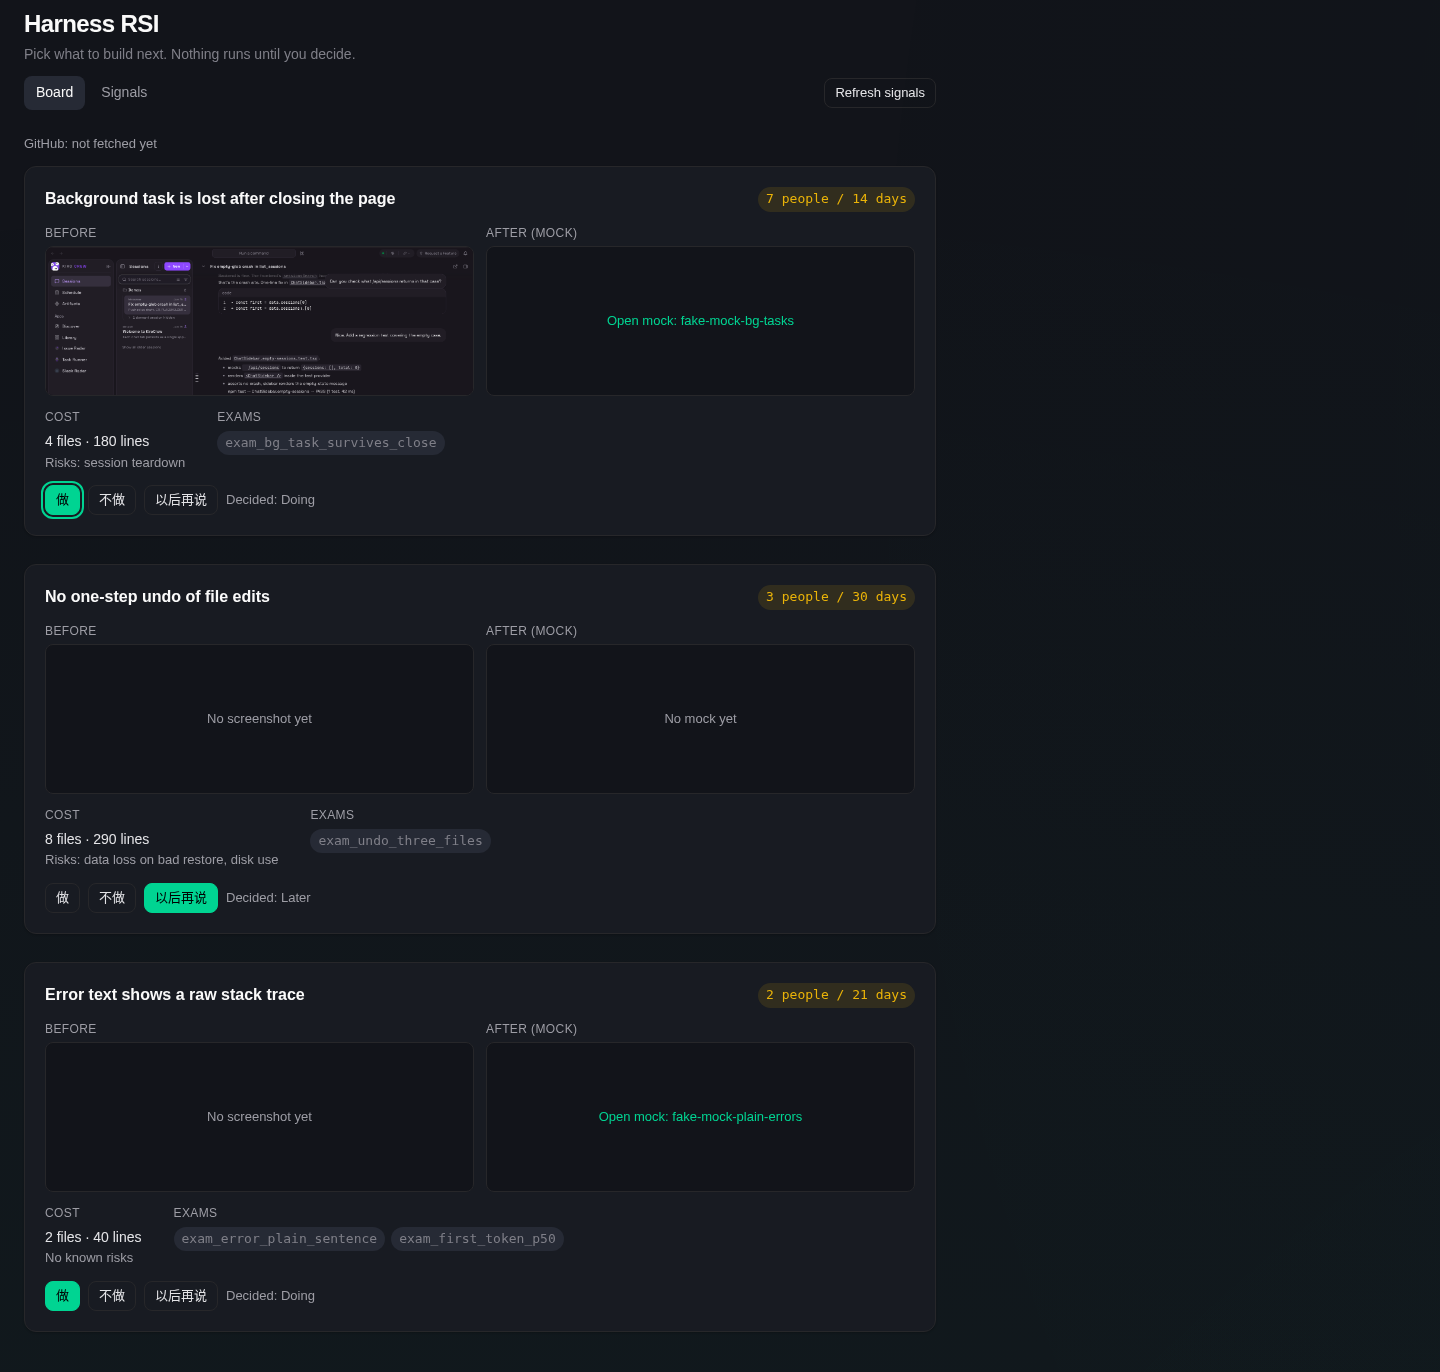
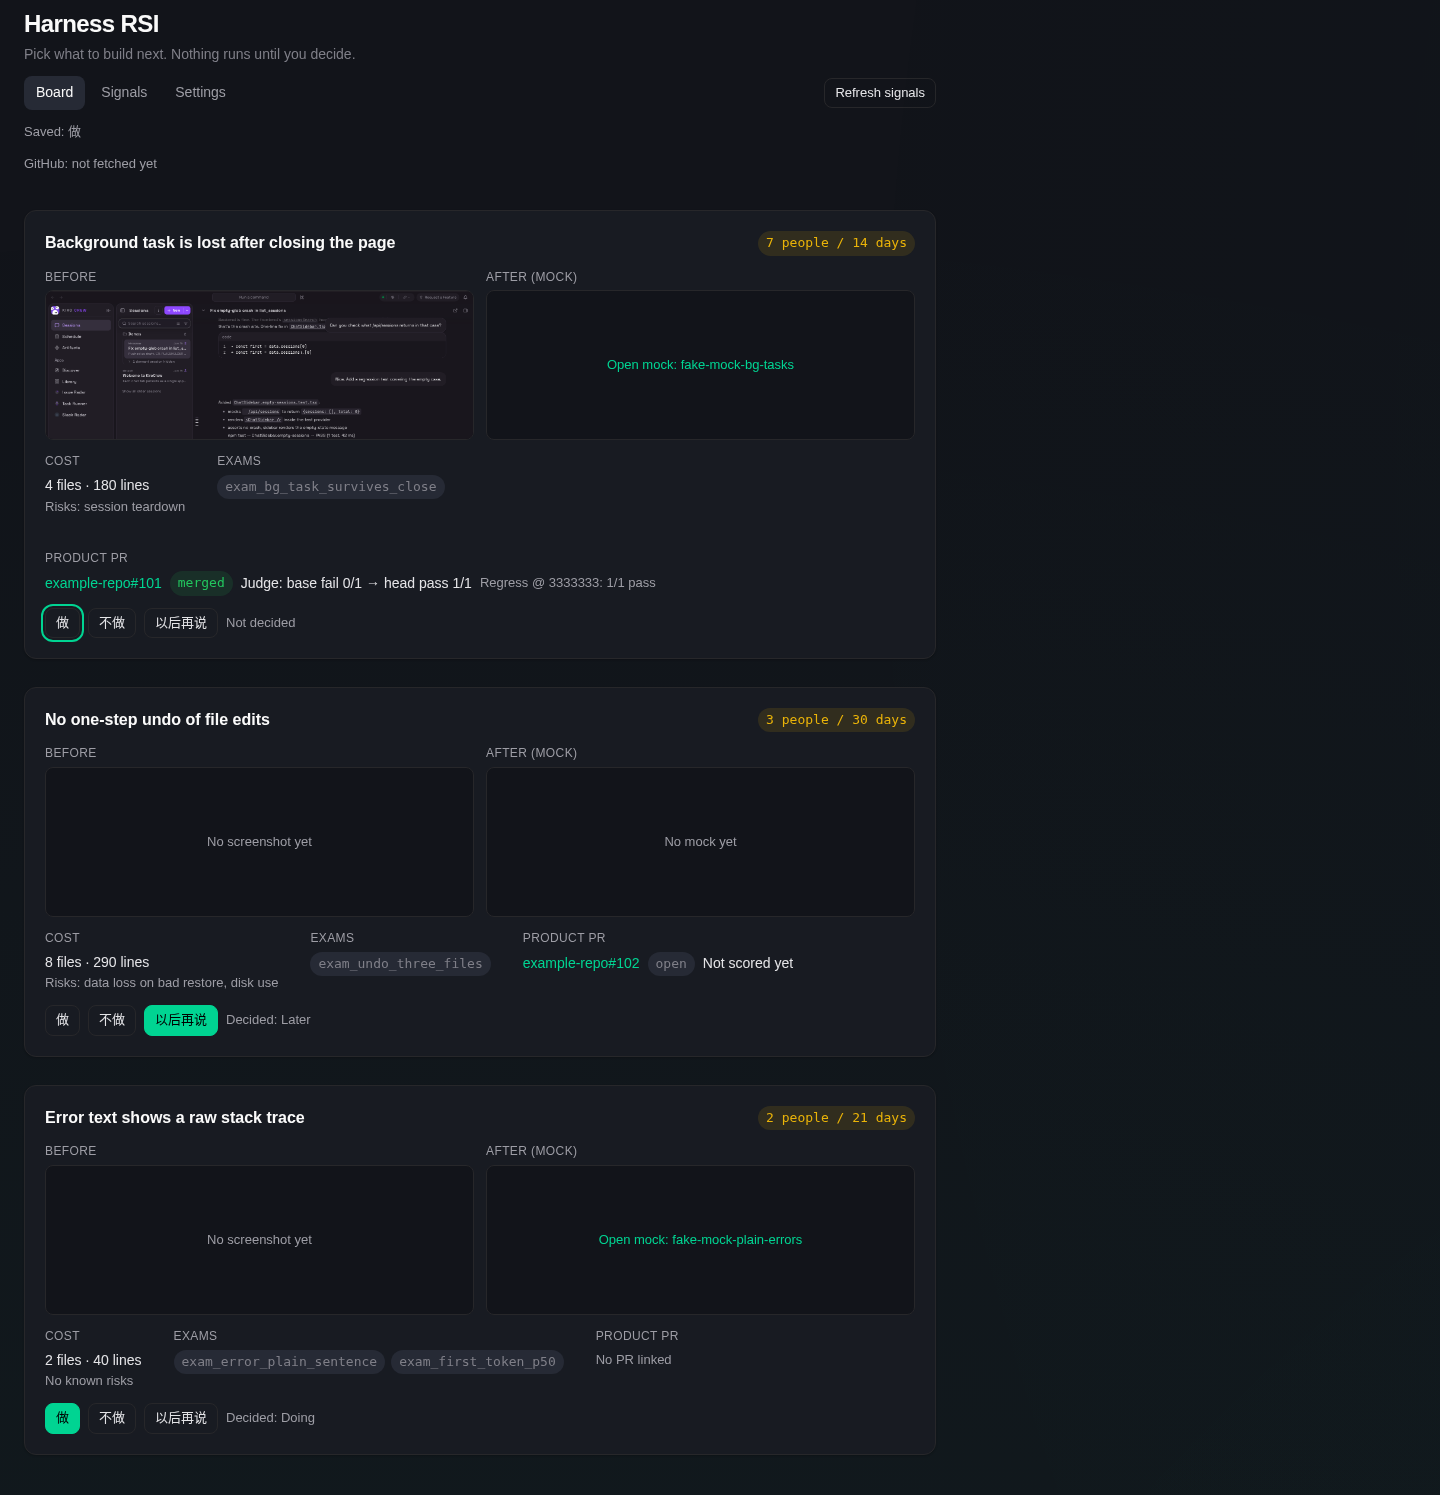
feat(ui): judge scores on each card, link a PR, score on a switch
Re-lands the changes from #31 onto main. #31 merged into
feat/r7-3-outcome-ledger after that branch had already landed via #30,
so its merge commit 2a82a0ed08 never reached main. Docstring conflict
in backend/schedule.py resolved keeping main's text.

diff --git a/backend/routes.py b/backend/routes.py
@@ -8,7 +8,10 @@ one-shot job (at most one at a time; it takes minutes) whose rows merge when it 
 Slack settings (``backend.settings``). ``POST /round/run`` runs one design-crew round
 (``backend.round_job``) with these same Slack and GitHub sources plus the owner's sessions; ``GET /round/status``
 reports it. ``/schedule`` and ``/schedule/tick``: the owner's opt-in weekly round and daily
-regress (``backend.schedule``), off by default. No startup hook, no timer in the gateway.
+regress (``backend.schedule``), off by default. ``GET /outcomes`` reads the outcome ledger
+and the scoring job; ``POST /outcomes/link`` links a card to a KiroCrew PR; ``POST /score/run``
+starts ``python -m backend.autoscore`` (single-flight; the tick does when scoring is on).
+No startup hook, no timer in the gateway.
 """
 
 import asyncio
@@ -28,15 +31,18 @@ except ImportError:  # tests and the CLI import ``backend`` as a top-level packa
     import adapters.sessions
     import adapters.slack
 
-from . import round_job, schedule, settings, store
+from . import ledger, round_job, schedule, settings, store
 
 APP_NAME = "harness-rsi"
 MAX_BODY = 2 * 1024 * 1024
 GITHUB_TIMEOUT_S = 30 * 60
+SCORE_TIMEOUT_S = 6 * 3600
 #: The GitHub job: ``task`` is the running asyncio task, the rest is shown on the board.
 JOB = {"task": None, "running": False, "started_at": None, "finished_at": None, "rows": None, "error": ""}
 CLOCK = lambda: dt.datetime.now().astimezone()  # noqa: E731 - local time; tests pass a fake
 SCHEDULED = set()  # tasks the tick started, held until they end
+#: The scoring job (``backend.autoscore``), shown with ``/outcomes``; ``updated`` lists rows it changed.
+SCORE = {"task": None, "running": False, "started_at": None, "finished_at": None, "updated": None, "error": ""}
 
 
 def _err(status, code, message):
@@ -179,6 +185,61 @@ async def _refresh(request, ctx):
     return web.json_response({"ok": True, "total": total, "added": added, "errors": [note] if note else [], "github": _job_view()})
 
 
+def score_run(kc):
+    """``(updated rows, error)`` from one ``python -m backend.autoscore`` run (exit 3: rate limit)."""
+    try:
+        r = subprocess.run([sys.executable, "-m", "backend.autoscore", "--kirocrew", kc], cwd=store.ROOT,
+                           capture_output=True, text=True, timeout=SCORE_TIMEOUT_S)
+        return (json.loads(r.stdout)["updated"], "") if r.returncode == 0 else (None, f"score: exit {r.returncode}")
+    except (OSError, subprocess.TimeoutExpired, ValueError, KeyError) as exc:
+        return None, f"score: {type(exc).__name__}"
+
+
+async def _score_job(kc):
+    try:
+        SCORE.update(zip(("updated", "error"), await asyncio.to_thread(score_run, kc)))
+    except Exception as exc:  # noqa: BLE001 - the job must always report and release
+        SCORE.update(updated=None, error=f"score: {type(exc).__name__}")
+    finally:
+        SCORE.update(running=False, finished_at=time.time(), task=None)
+
+
+def start_score(kc):
+    """Start the scoring job unless one runs (single-flight); True when started."""
+    if SCORE["running"]:
+        return False
+    SCORE.update(running=True, started_at=time.time(), finished_at=None, updated=None, error="")
+    SCORE["task"] = asyncio.get_running_loop().create_task(_score_job(kc))
+    return True
+
+
+async def _outcomes(request, ctx):
+    score = {k: v for k, v in SCORE.items() if k != "task"}
+    return web.json_response({"ok": True, "outcomes": await asyncio.to_thread(ledger.rows), "score": score})
+
+
+async def _link(request, ctx):
+    if not _owner(request):
+        return _err(403, "owner_only", "only the dashboard owner can link a PR")
+    body = await _body(request) or {}
+    if not (isinstance(n := body.get("pr"), int) and not isinstance(n, bool) and 0 < n < 10**7):
+        return _err(400, "bad_pr", "pr must be a KiroCrew pull request number")
+    if body.get("proposal_id") not in {p["id"] for p in await asyncio.to_thread(store.read_proposals)}:
+        return _err(404, "unknown_proposal", "no such proposal")
+    row = await asyncio.to_thread(ledger.link, body["proposal_id"], f"kirodotdev/KiroCrew#{n}", "board")
+    return web.json_response({"ok": True, "outcome": row})
+
+
+async def _score_post(request, ctx):
+    if not _owner(request):
+        return _err(403, "owner_only", "only the dashboard owner can start scoring")
+    if not (kc := (await asyncio.to_thread(schedule.read))["kirocrew_dir"]):
+        return _err(409, "no_kirocrew", "set the KiroCrew clone on the Settings tab first")
+    if not start_score(kc):
+        return _err(409, "score_running", "scoring is already running")
+    return await _outcomes(request, ctx)
+
+
 def regress_runs():
     """Stored post-merge regression runs, newest first; an unreadable file is left out."""
     runs = []
@@ -236,6 +297,8 @@ async def _schedule_tick(request, ctx):
     start = lambda: None if JOB["running"] else round_job.start(rnd, round_sources())  # noqa: E731
     out, jobs = schedule.tick(CLOCK, conf, round_job.STATE["running"] or JOB["running"], start,
                               schedule.run_regress, lambda *note: schedule.push(state, *note))
+    on = conf["score_enabled"] and conf["kirocrew_dir"]
+    out["score"] = "off" if not on else "started" if start_score(conf["kirocrew_dir"]) else "busy"
     for job in jobs:
         task = asyncio.get_running_loop().create_task(job)
         SCHEDULED.add(task)
@@ -261,4 +324,7 @@ def register_routes(ctx):
         AppRoute(method="GET", path="/schedule", handler=_schedule_get),
         AppRoute(method="POST", path="/schedule", handler=_schedule_post),
         AppRoute(method="POST", path="/schedule/tick", handler=_schedule_tick),
+        AppRoute(method="GET", path="/outcomes", handler=_outcomes),
+        AppRoute(method="POST", path="/outcomes/link", handler=_link),
+        AppRoute(method="POST", path="/score/run", handler=_score_post),
     ]

diff --git a/tests/backend/test_outcome_routes.py b/tests/backend/test_outcome_routes.py
@@ -1,0 +1,69 @@
+"""Outcome routes: owner-only link, the ledger read, and the single-flight scoring job."""
+
+import asyncio
+import json
+import pathlib
+import sys
+
+import pytest
+
+ROOT = pathlib.Path(__file__).resolve().parents[2]
+sys.path.insert(0, str(ROOT))
+from backend import routes  # noqa: E402
+
+PROPOSALS = json.loads((ROOT / "fixtures/proposals.json").read_text(encoding="utf-8"))
+
+
+@pytest.fixture
+def env(tmp_path, monkeypatch):
+    monkeypatch.setenv("HARNESS_RSI_DATA", str(tmp_path))
+    (tmp_path / "proposals.json").write_text(json.dumps(PROPOSALS), encoding="utf-8")
+    return tmp_path
+
+
+class Req(dict):
+    def __init__(self, body=None, **flags):
+        super().__init__({"app": "harness-rsi", **flags})
+        self._body, self.content_length = body, 10
+
+    async def json(self):
+        return self._body
+
+
+def call(handler, req):
+    resp = asyncio.run(handler(req, None))
+    return resp.status, json.loads(resp.text)
+
+
+def test_link_route_is_owner_only_and_checked(env):
+    assert call(routes._link, Req({"proposal_id": "prop_bg_tasks", "pr": 5}, internal_auth=True))[0] == 403
+    assert call(routes._link, Req({"proposal_id": "prop_bg_tasks", "pr": "5"}))[0] == 400
+    assert call(routes._link, Req({"proposal_id": "prop_nope", "pr": 5}))[0] == 404
+    status, body = call(routes._link, Req({"proposal_id": "prop_bg_tasks", "pr": 5}))
+    assert status == 200 and body["outcome"]["pr"] == "kirodotdev/KiroCrew#5"
+    assert [r["pr"] for r in call(routes._outcomes, Req())[1]["outcomes"]] == ["kirodotdev/KiroCrew#5"]
+
+
+def test_score_job_is_single_flight(env, monkeypatch):
+    calls = []
+    monkeypatch.setattr(routes, "score_run", lambda kc: (calls.append(kc), ([{"pr": "x"}], ""))[1])
+
+    async def go():
+        assert routes.start_score("/kc") and not routes.start_score("/kc")
+        await routes.SCORE["task"]
+        return json.loads((await routes._outcomes(Req(), None)).text)["score"]
+    view = asyncio.run(go())
+    assert calls == ["/kc"] and view["running"] is False and view["updated"] == [{"pr": "x"}]
+
+
+@pytest.mark.parametrize("conf,want", [({"score_enabled": False, "kirocrew_dir": "/kc"}, "off"),
+                                       ({"score_enabled": True, "kirocrew_dir": ""}, "off"),
+                                       ({"score_enabled": True, "kirocrew_dir": "/kc"}, "started")])
+def test_tick_starts_scoring_only_when_the_owner_turned_it_on(env, monkeypatch, conf, want):
+    from backend import schedule
+    started = []
+    monkeypatch.setattr(schedule, "read", lambda: {**schedule.DEFAULTS, **conf})
+    monkeypatch.setattr(routes, "start_score", lambda kc: started.append(kc) or True)
+    assert schedule.DEFAULTS["score_enabled"] is False  # off until the owner saves it
+    out = call(routes._schedule_tick, Req(internal_auth=True))[1]
+    assert out["score"] == want and started == (["/kc"] if want == "started" else [])

diff --git a/backend/schedule.py b/backend/schedule.py
@@ -4,6 +4,7 @@ The hourly app cron posts ``/schedule/tick``; :func:`tick` starts what is on and
 live in the vault (only the owner-only ``POST /schedule`` writes them); runs in ``schedule-runs.jsonl``.
 Out goes one note per round, one critical note per regression, one note when regression exams could
 not run; no Slack post, PR or merge.
+``score_enabled`` lets the tick start the PR scoring job (``backend.autoscore``, via ``routes``).
 """
 
 import asyncio
@@ -17,7 +18,7 @@ from . import settings, store
 
 APP, VAULT_NAME, RUNS, BOARD_URL = "harness-rsi", "harness-rsi.schedule", "schedule-runs.jsonl", "/apps/harness-rsi"
 CHANNELS = {"rounds": "default", "regressions": "critical"}  # as app.json declares them
-DEFAULTS = {"round_enabled": False, "regress_enabled": False, "weekday": 0, "hour": 9, "kirocrew_dir": ""}
+DEFAULTS = {"round_enabled": False, "regress_enabled": False, "score_enabled": False, "weekday": 0, "hour": 9, "kirocrew_dir": ""}
 REGRESS = {"running": False}
 
 

diff --git a/tests/backend/test_backend.py b/tests/backend/test_backend.py
@@ -217,5 +217,6 @@ def test_disabled_app_registers_nothing(tmp_path, monkeypatch):
     assert got == [("GET", "/signals"), ("GET", "/proposals"), ("POST", "/decisions"), ("POST", "/refresh"),
                    ("GET", "/refresh/status"), ("GET", "/settings"), ("POST", "/settings"), ("GET", "/regress"),
                    ("POST", "/round/run"), ("GET", "/round/status"), ("GET", "/schedule"), ("POST", "/schedule"),
-                   ("POST", "/schedule/tick")]
+                   ("POST", "/schedule/tick"), ("GET", "/outcomes"), ("POST", "/outcomes/link"),
+                   ("POST", "/score/run")]
     assert not (tmp_path / "d").exists()

diff --git a/tests/ui/test_ui.py b/tests/ui/test_ui.py
@@ -42,7 +42,7 @@ def test_manifest_is_opt_in_with_no_automatic_actions():
 
 def test_fake_data_is_a_copy_of_the_fixtures():
     lines = (ROOT / "ui" / "fake-data.mjs").read_text(encoding="utf-8").splitlines()
-    for name in ("proposals", "signals"):
+    for name in ("proposals", "signals", "outcomes"):
         line = next(x for x in lines if x.startswith(f"export const {name} = "))
         assert json.loads(line.split(" = ", 1)[1]) == load(f"fixtures/{name}.json")
 

diff --git a/README.md b/README.md
@@ -29,8 +29,8 @@ Keeping the exam store honest (exams stay in `$HARNESS_RSI_DATA/exams`, never in
 
 Closing the loop (outcome ledger):
 
-- `$HARNESS_RSI_DATA/outcomes.jsonl` holds one `schemas/outcome.schema.json` row per card and product PR: the decision, the PR, its merge sha, the judge's base and head runs, the exams promoted on merge and every post-merge regress result for those exams. Rows are appended whole; the newest per `(card_id, pr)` is current.
-- `python -m backend.autoscore --kirocrew KC` reads the 50 newest KiroCrew PRs and every linked one in one GraphQL call (read-only, stops below 200 API points), links a PR whose title or body names a card id, and when a linked PR's head moved runs the card's exams (its `exam_ids` plus exams written for its signals) on the base and on the head in throwaway worktrees. On merge it promotes those exams to regression and runs the regression suite on the merge commit. Fork PRs are linked but never run. Paired metrics come from `$HARNESS_RSI_DATA/metrics/<owner>__<repo>__<n>.json` (`judge.metrics_in` output) when one exists.
+- `$HARNESS_RSI_DATA/outcomes.jsonl` holds one `schemas/outcome.schema.json` row per card and product PR: the decision, the PR, its merge sha, the judge's base and head runs, the exams promoted on merge and every post-merge regress result for those exams. Rows are appended whole; the newest per `(card_id, pr)` is current. `GET /outcomes` reads it and each card shows its PRs' scores; `POST /outcomes/link {proposal_id, pr}` links a card to a KiroCrew PR from the board.
+- `python -m backend.autoscore --kirocrew KC` reads the 50 newest KiroCrew PRs and every linked one in one GraphQL call (read-only, stops below 200 API points), links a PR whose title or body names a card id, and when a linked PR's head moved runs the card's exams (its `exam_ids` plus exams written for its signals) on the base and on the head in throwaway worktrees. On merge it promotes those exams to regression and runs the regression suite on the merge commit. Fork PRs are linked but never run. Paired metrics come from `$HARNESS_RSI_DATA/metrics/<owner>__<repo>__<n>.json` (`judge.metrics_in` output) when one exists. The board's Score PRs button (`POST /score/run`) starts it as a single-flight job, and the hourly tick does when "Score linked KiroCrew PRs" is on in Settings.
 - Back-fill: `python -m backend.autoscore --kirocrew KC --pr N [--card prop_x]` scores one PR now; a PR with no runnable exam or no card says so in `note`.
 
 `fixtures/` holds fake rows for each schema (no real Slack text, names or links). `tests/contract/` validates every fixture, checks cross-references resolve, and asserts known-bad rows are refused. Run `pip install -r requirements.txt && pytest tests/`.
